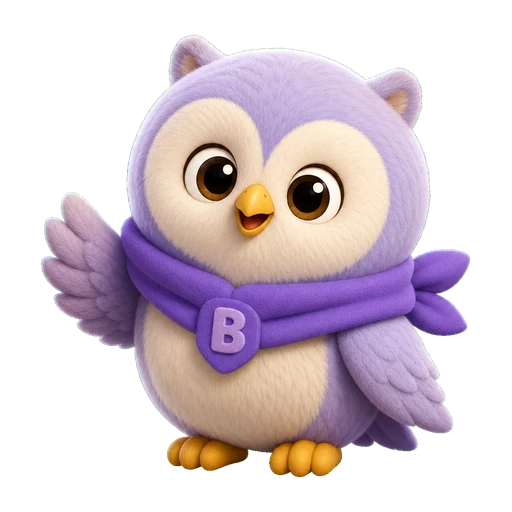
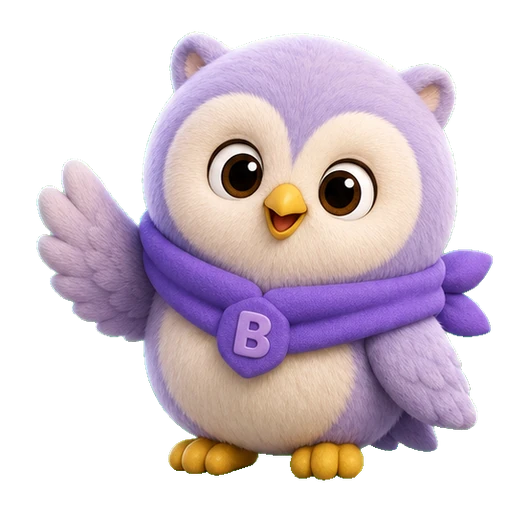
add state-based practice pet actions

diff --git a/frontend/src/components/PracticePet.vue b/frontend/src/components/PracticePet.vue
@@ -1,8 +1,17 @@
 <script setup lang="ts">
 import { computed, ref, watch } from "vue";
 import puppyImage from "../assets/practice-pets/puppy.webp";
+import puppyListeningImage from "../assets/practice-pets/puppy-listening.webp";
+import puppySteadyImage from "../assets/practice-pets/puppy-steady.webp";
+import puppyClearerImage from "../assets/practice-pets/puppy-clearer.webp";
 import owlImage from "../assets/practice-pets/owl.webp";
+import owlListeningImage from "../assets/practice-pets/owl-listening.webp";
+import owlSteadyImage from "../assets/practice-pets/owl-steady.webp";
+import owlClearerImage from "../assets/practice-pets/owl-clearer.webp";
 import robotImage from "../assets/practice-pets/robot.webp";
+import robotListeningImage from "../assets/practice-pets/robot-listening.webp";
+import robotSteadyImage from "../assets/practice-pets/robot-steady.webp";
+import robotClearerImage from "../assets/practice-pets/robot-clearer.webp";
 
 const props = defineProps<{
   sessionActive: boolean;
@@ -16,31 +25,47 @@ const props = defineProps<{
 
 type PetId = "owl" | "puppy" | "robot";
 type PetTone = "ready" | "listening" | "playing" | "great" | "coach";
+type PetVisualState = "ready" | "listening" | "steady" | "clearer";
 
 const PET_STORAGE_KEY = "bowly-practice-pet";
 
 const pets: Array<{
   id: PetId;
   name: string;
-  image: string;
+  images: Record<PetVisualState, string>;
   hint: string;
 }> = [
   {
     id: "owl",
     name: "Owl",
-    image: owlImage,
+    images: {
+      ready: owlImage,
+      listening: owlListeningImage,
+      steady: owlSteadyImage,
+      clearer: owlClearerImage,
+    },
     hint: "Calm listener",
   },
   {
     id: "puppy",
     name: "Puppy",
-    image: puppyImage,
+    images: {
+      ready: puppyImage,
+      listening: puppyListeningImage,
+      steady: puppySteadyImage,
+      clearer: puppyClearerImage,
+    },
     hint: "Warm buddy",
   },
   {
     id: "robot",
     name: "Robot",
-    image: robotImage,
+    images: {
+      ready: robotImage,
+      listening: robotListeningImage,
+      steady: robotSteadyImage,
+      clearer: robotClearerImage,
+    },
     hint: "AI helper",
   },
 ];
@@ -70,6 +95,7 @@ const petState = computed(() => {
       face: "concerned",
       symbol: "!",
       showMessage: true,
+      visual: "clearer",
     };
   }
 
@@ -81,6 +107,7 @@ const petState = computed(() => {
       face: "calm",
       symbol: "✓",
       showMessage: false,
+      visual: "ready",
     };
   }
 
@@ -92,6 +119,7 @@ const petState = computed(() => {
       face: "focused",
       symbol: "•",
       showMessage: true,
+      visual: "clearer",
     };
   }
 
@@ -103,6 +131,7 @@ const petState = computed(() => {
       face: "happy",
       symbol: "♪",
       showMessage: false,
+      visual: "steady",
     };
   }
 
@@ -114,6 +143,7 @@ const petState = computed(() => {
       face: "focused",
       symbol: "♪",
       showMessage: false,
+      visual: "listening",
     };
   }
 
@@ -124,10 +154,14 @@ const petState = computed(() => {
     face: "calm",
     symbol: "•",
     showMessage: false,
+    visual: "listening",
   };
 });
 
 const petToneClass = computed(() => `practice-pet--${petState.value.tone as PetTone}`);
+const selectedPetImage = computed(
+  () => selectedPet.value.images[petState.value.visual as PetVisualState],
+);
 </script>
 
 <template>
@@ -141,7 +175,7 @@ const petToneClass = computed(() => `practice-pet--${petState.value.tone as PetT
     <div class="practice-pet__avatar-wrap" :class="`practice-pet__avatar-wrap--${petState.face}`">
       <img
         class="practice-pet__avatar"
-        :src="selectedPet.image"
+        :src="selectedPetImage"
         :alt="`${selectedPet.name} practice buddy`"
       />
     </div>
@@ -164,7 +198,7 @@ const petToneClass = computed(() => `practice-pet--${petState.value.tone as PetT
         :aria-pressed="selectedPetId === pet.id"
         @click="selectedPetId = pet.id"
       >
-        <img :src="pet.image" alt="" />
+        <img :src="pet.images.ready" alt="" />
       </button>
     </div>
   </section>
